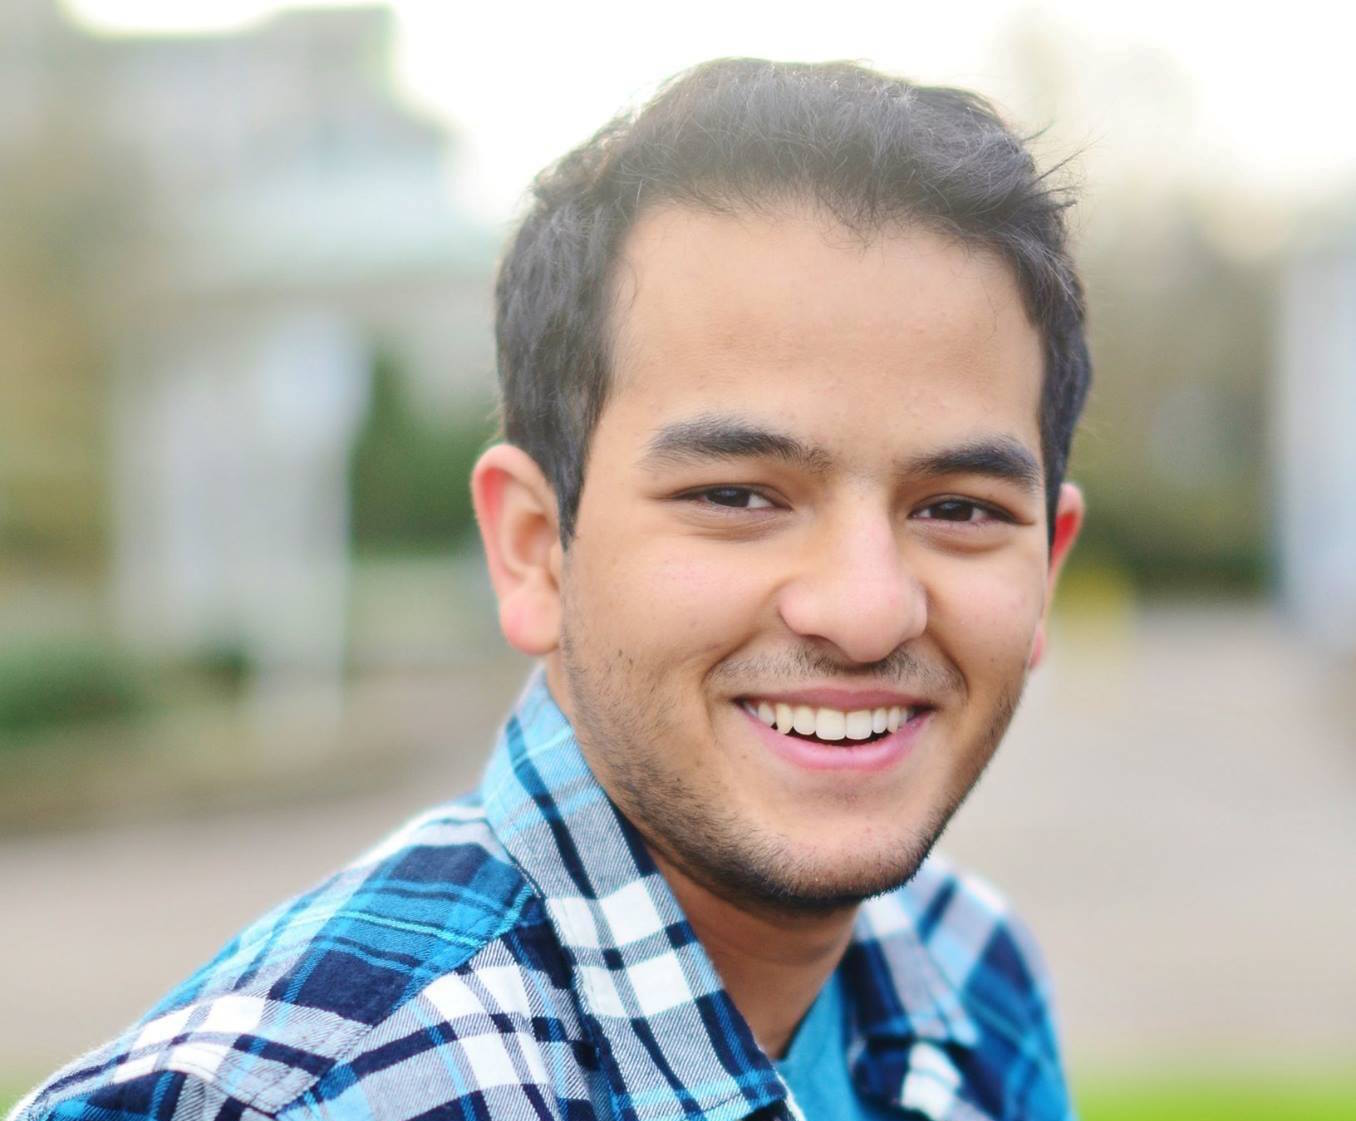
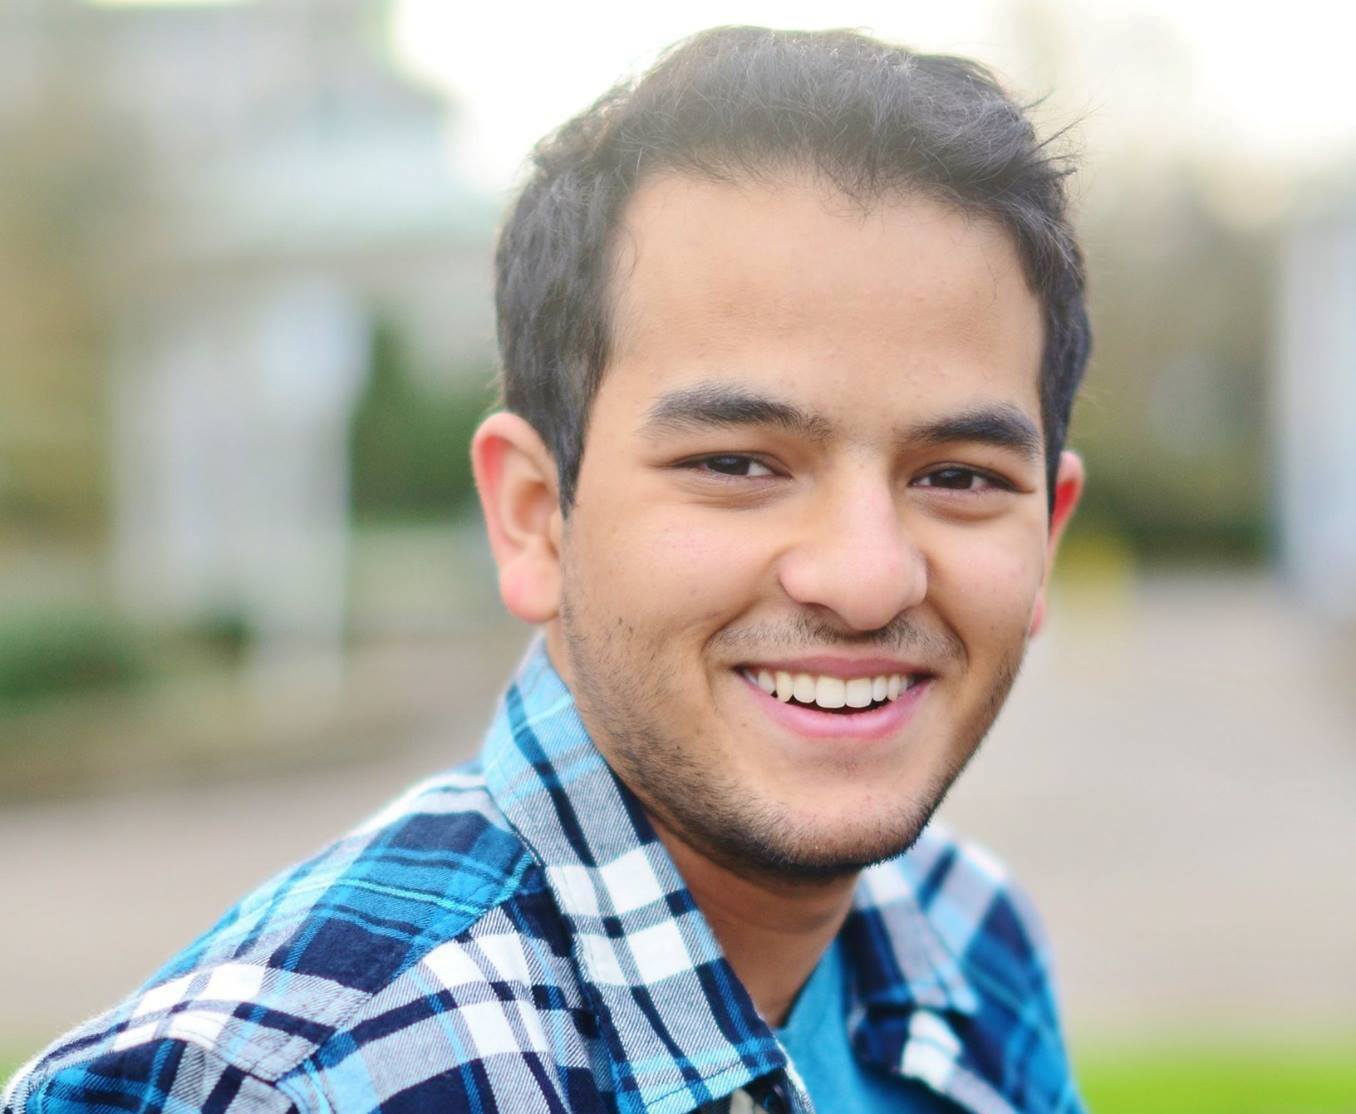
Adding g Freshman

diff --git a/company.html b/company.html
@@ -62,7 +62,7 @@ permalink: /company/
 
                   <li class="mix Founders">
                     <a href="http://richarizardd.me">
-                      <img src="{{ site.baseurl }}/img/company/rchen.jpg" alt="">
+                      <img src="{{ site.baseurl }}/img/company/rchen2.jpg" alt="">
                       <div class="overly">
                         <div class="position-center">
                           <h2>Richard Chen</h2>
@@ -91,6 +91,42 @@ permalink: /company/
                       <div class="overly">
                         <div class="position-center">
                           <h2>Sami Messai</h2>
+                          <p>Design Team Member. Software Engineer.</p>
+                        </div>
+                      </div>
+                    </a>
+                  </li>
+
+                  <li class="mix Founders">
+                    <a href="#">
+                      <img src="{{ site.baseurl }}/img/company/amurali.jpg" alt="">
+                      <div class="overly">
+                        <div class="position-center">
+                          <h2>Aditya Murali</h2>
+                          <p>Design Team Member. Software Engineer.</p>
+                        </div>
+                      </div>
+                    </a>
+                  </li>
+
+                  <li class="mix Founders">
+                    <a href="#">
+                      <img src="{{ site.baseurl }}/img/company/lwu.jpg" alt="">
+                      <div class="overly">
+                        <div class="position-center">
+                          <h2>Lizzy Wu</h2>
+                          <p>Design Team Member. Software Engineer.</p>
+                        </div>
+                      </div>
+                    </a>
+                  </li>
+
+                  <li class="mix Founders">
+                    <a href="#">
+                      <img src="{{ site.baseurl }}/img/company/psingh.jpg" alt="">
+                      <div class="overly">
+                        <div class="position-center">
+                          <h2>Prerna Singh</h2>
                           <p>Design Team Member. Software Engineer.</p>
                         </div>
                       </div>

diff --git a/_site/company/index.html b/_site/company/index.html
@@ -139,7 +139,7 @@
 
                   <li class="mix Founders">
                     <a href="http://richarizardd.me">
-                      <img src="/img/company/rchen.jpg" alt="">
+                      <img src="/img/company/rchen2.jpg" alt="">
                       <div class="overly">
                         <div class="position-center">
                           <h2>Richard Chen</h2>
@@ -168,6 +168,42 @@
                       <div class="overly">
                         <div class="position-center">
                           <h2>Sami Messai</h2>
+                          <p>Design Team Member. Software Engineer.</p>
+                        </div>
+                      </div>
+                    </a>
+                  </li>
+
+                  <li class="mix Founders">
+                    <a href="#">
+                      <img src="/img/company/amurali.jpg" alt="">
+                      <div class="overly">
+                        <div class="position-center">
+                          <h2>Aditya Murali</h2>
+                          <p>Design Team Member. Software Engineer.</p>
+                        </div>
+                      </div>
+                    </a>
+                  </li>
+
+                  <li class="mix Founders">
+                    <a href="#">
+                      <img src="/img/company/lwu.jpg" alt="">
+                      <div class="overly">
+                        <div class="position-center">
+                          <h2>Lizzy Wu</h2>
+                          <p>Design Team Member. Software Engineer.</p>
+                        </div>
+                      </div>
+                    </a>
+                  </li>
+
+                  <li class="mix Founders">
+                    <a href="#">
+                      <img src="/img/company/psingh.jpg" alt="">
+                      <div class="overly">
+                        <div class="position-center">
+                          <h2>Prerna Singh</h2>
                           <p>Design Team Member. Software Engineer.</p>
                         </div>
                       </div>
